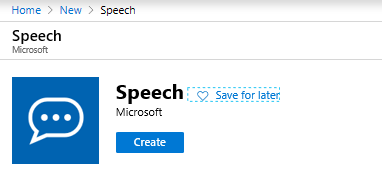
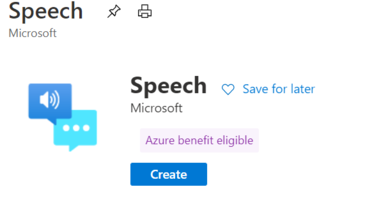
Fixed images and content

Changed region(s): [[0.2941, 0.3403, 0.8529, 0.8639], [0.0, 0.0, 1.0, 0.3141], [0.0294, 0.3665, 0.2647, 0.8639]]

diff --git a/articles/bot-service-channel-connect-directlinespeech.md b/articles/bot-service-channel-connect-directlinespeech.md
@@ -1,23 +1,38 @@
 ---
 title: Connect a bot to Direct Line Speech
 titleSuffix: Bot Service
-description: Overview and steps required to connect an existing Bot Framework bot to the Direct Line Speech channel for voice in, voice out interaction with high reliability and low latency.
+description: Learn how to connect a bot to the Direct Line Speech channel for user's voice interaction with high reliability and low latency.
 services: bot-service
 author: trrwilson
 manager: nitinme
 ms.service: bot-service
 ms.topic: conceptual
-ms.date: 11/02/2019
-ms.author: travisw
+ms.date: 10/07/2020
+ms.author: v-mimiel
 ---
 
 # Connect a bot to Direct Line Speech
 
 [!INCLUDE[applies-to-v4](includes/applies-to.md)]
 
-You can configure your bot to allow client applications to communicate with it through the Direct Line Speech channel.
+This article describes how to connect a bot to the **Direct Line Speech channel**. Use this channel to allow client applications to interact with a bot via voice.
 
 Once you have built your bot, onboarding it with Direct Line Speech will enable low latency, high reliability connection with client applications using the [Speech SDK](https://aka.ms/speech-service-docs). These connections are optimized for voice in, voice out conversational experiences. For more information on Direct Line Speech and how to build client applications, visit the [custom voice-first virtual assistant](https://aka.ms/cognitive-services-voice-assistants) page.
+
+## Prerequisites
+
+ The Direct Line Speech channel requires a **Cognitive Services** resource, specifically a **speech** cognitive service resource. You can either use an existing resource or create a new one. To create a new speech resource follow these steps:
+
+1. In your browser, navigate to the [Azure portal create resources](https://ms.portal.azure.com/#create/hub).
+1. In the left panel. click **Create a resource**.
+1. In the right panel, in the search box, enter **speech**.
+1. In the the drop-down list select **Speech**. The following is displayed:
+
+    ![create speech cognitive resource](media/voice-first-virtual-assistants/create-speech-cognitive-resource.PNG "Create speech cognitive resource")
+
+1. Click **Create** and follow the wizard steps.
+
+    For additional information, see [Create a Cognitive Services resource](https://docs.microsoft.com/azure/cognitive-services/cognitive-services-apis-create-account).
 
 ## Add the Direct Line Speech channel
 
@@ -33,38 +48,28 @@ Once you have built your bot, onboarding it with Direct Line Speech will enable 
 
     ![selecting direct line speech channel](media/voice-first-virtual-assistants/bot-service-channel-directlinespeech-cognitivesericesaccount-selection.png "selecting Cognitive Services resource")
 
-    The Direct Line Speech Channel requires a Cognitive Services resource, specifically a **speech** cognitive service resource. You can either use an existing resource or create a new one. To create a new speech resource follow these steps:
+1. Once you've reviewed the terms of use, click `Save` to confirm your channel selection. This will add the channel to the bot.
 
-    - Go to the [Azure portal create resources](https://ms.portal.azure.com/#create/hub).
-    - Search for *Speech* and select it from the drop-down list. The following is displayed:
-
-        ![create speech cognitive resource](media/voice-first-virtual-assistants/create-speech-cognitive-resource.PNG "Create speech cognitive resource")
-
-    - Follow the wizard steps.
-
-    For additional information, see [Create a Cognitive Services resource](https://docs.microsoft.com/azure/cognitive-services/cognitive-services-apis-create-account).
-
-1. Once you've reviewed the terms of use, click `Save` to confirm your channel selection.
-
-    ![saving the enablement of Direct Line Speech channel](media/voice-first-virtual-assistants/bot-service-channel-directlinespeech-savechannel.png "Save the channel configuration")
+    ![saving the enablement of Direct Line Speech channel](media/voice-first-virtual-assistants/bot-service-channel-directlinespeech-added.png "direct line speech channel added")
 
 ## Enable the Bot Framework Protocol Streaming Extensions
 
 With the Direct Line Speech channel connected to your bot, you now need to enable Bot Framework Protocol Streaming Extensions support for optimal, low-latency interaction.
 
-1. If you haven't already, open the blade for your bot in the [Azure Portal](https://portal.azure.com).
-
-1. Click on **Settings** under the **Bot Management** category (right below **Channels**). Click the checkbox for **Enable Streaming Endpoint**.
+1. In the left panel, select **Settings**.
+1. In the right panel, check the box by the **Enable Streaming Endpoint**.
 
     ![enable the streaming protocol](media/voice-first-virtual-assistants/bot-service-channel-directlinespeech-enablestreamingsupport.png "enable streaming extension support")
 
 1. At the top of the page, click **Save**.
 
-1. On the same blade, under the **App Service Settings** category, click **Configuration**.
+1. Navigate to the bot app service.
+1. In the left panel, in the **App Service Settings** category, select **Configuration**.
 
     ![navigate to app service settings](media/voice-first-virtual-assistants/bot-service-channel-directlinespeech-configureappservice.png "configure the app service")
 
-1. Click on `General settings` and then select the option to enable `Web socket` support.
+1. In the right panel, select the `General settings` tab.
+1. Set `Web sockets` to **On**.
 
     ![enable websockets for the app service](media/voice-first-virtual-assistants/bot-service-channel-directlinespeech-enablewebsockets.png "enable websockets")
 
